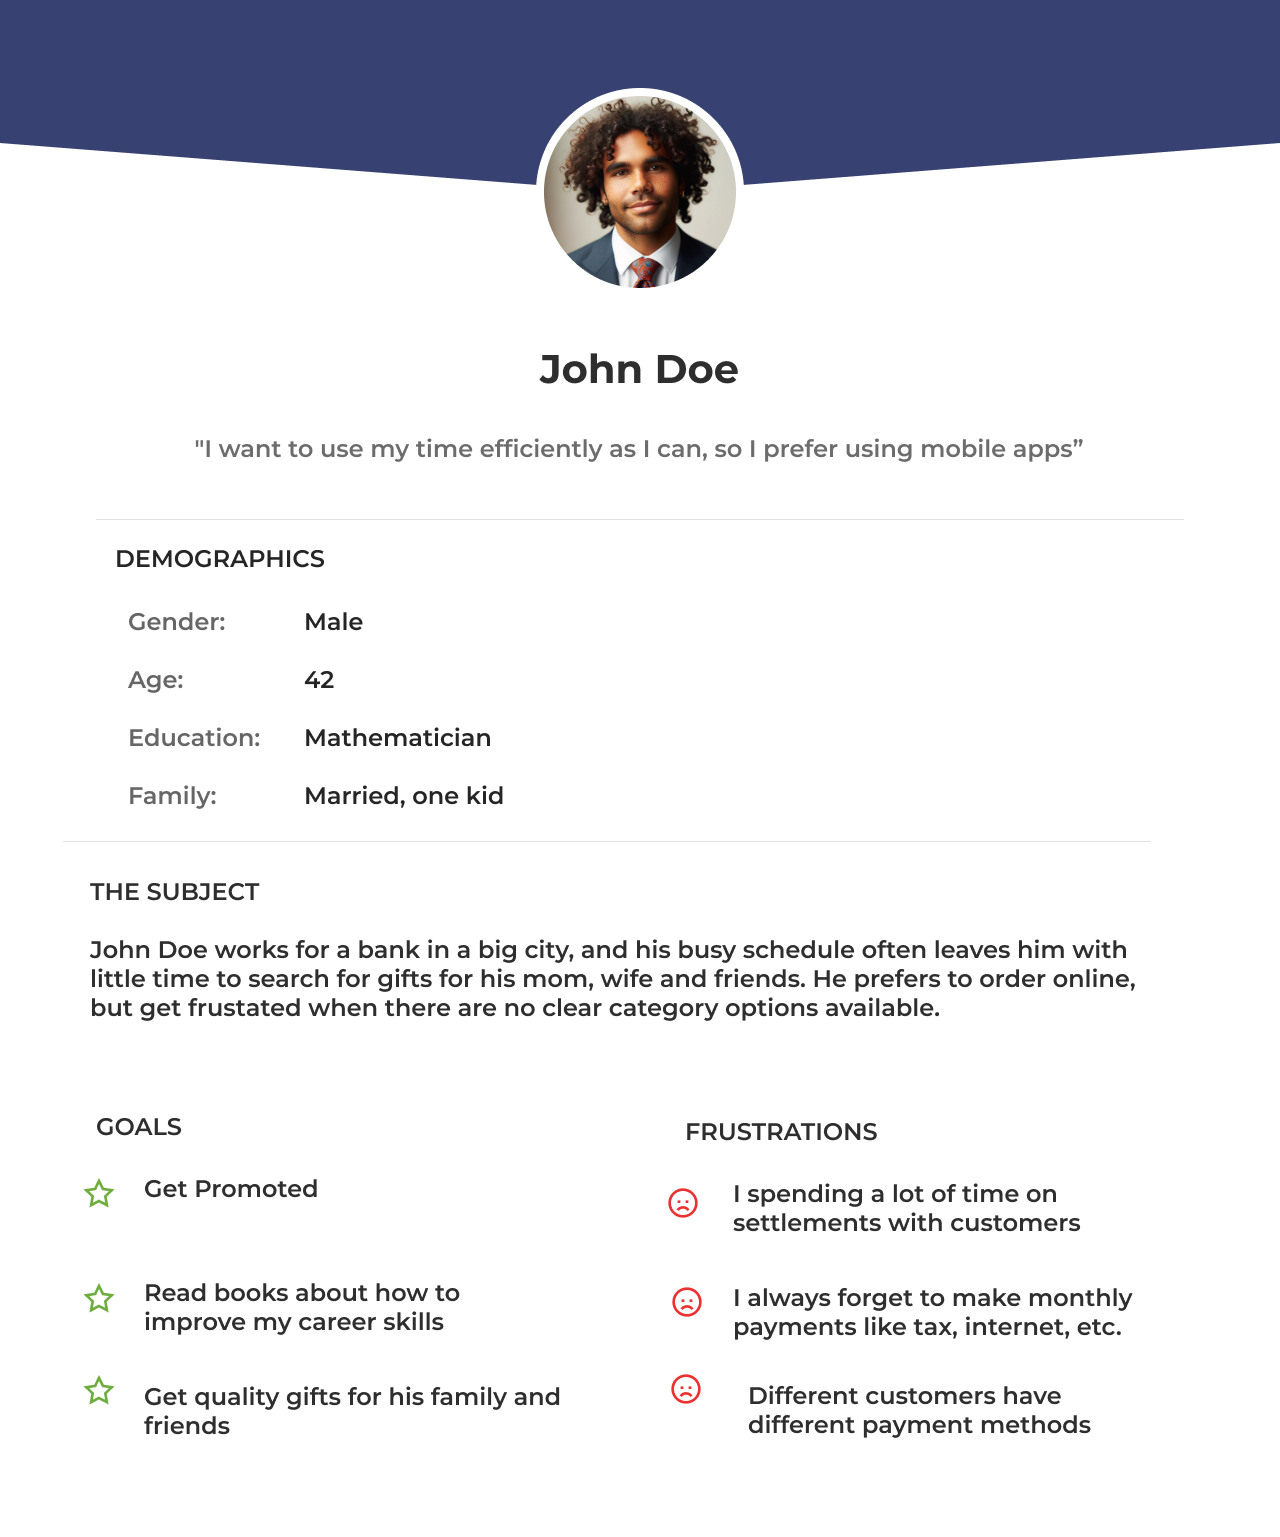
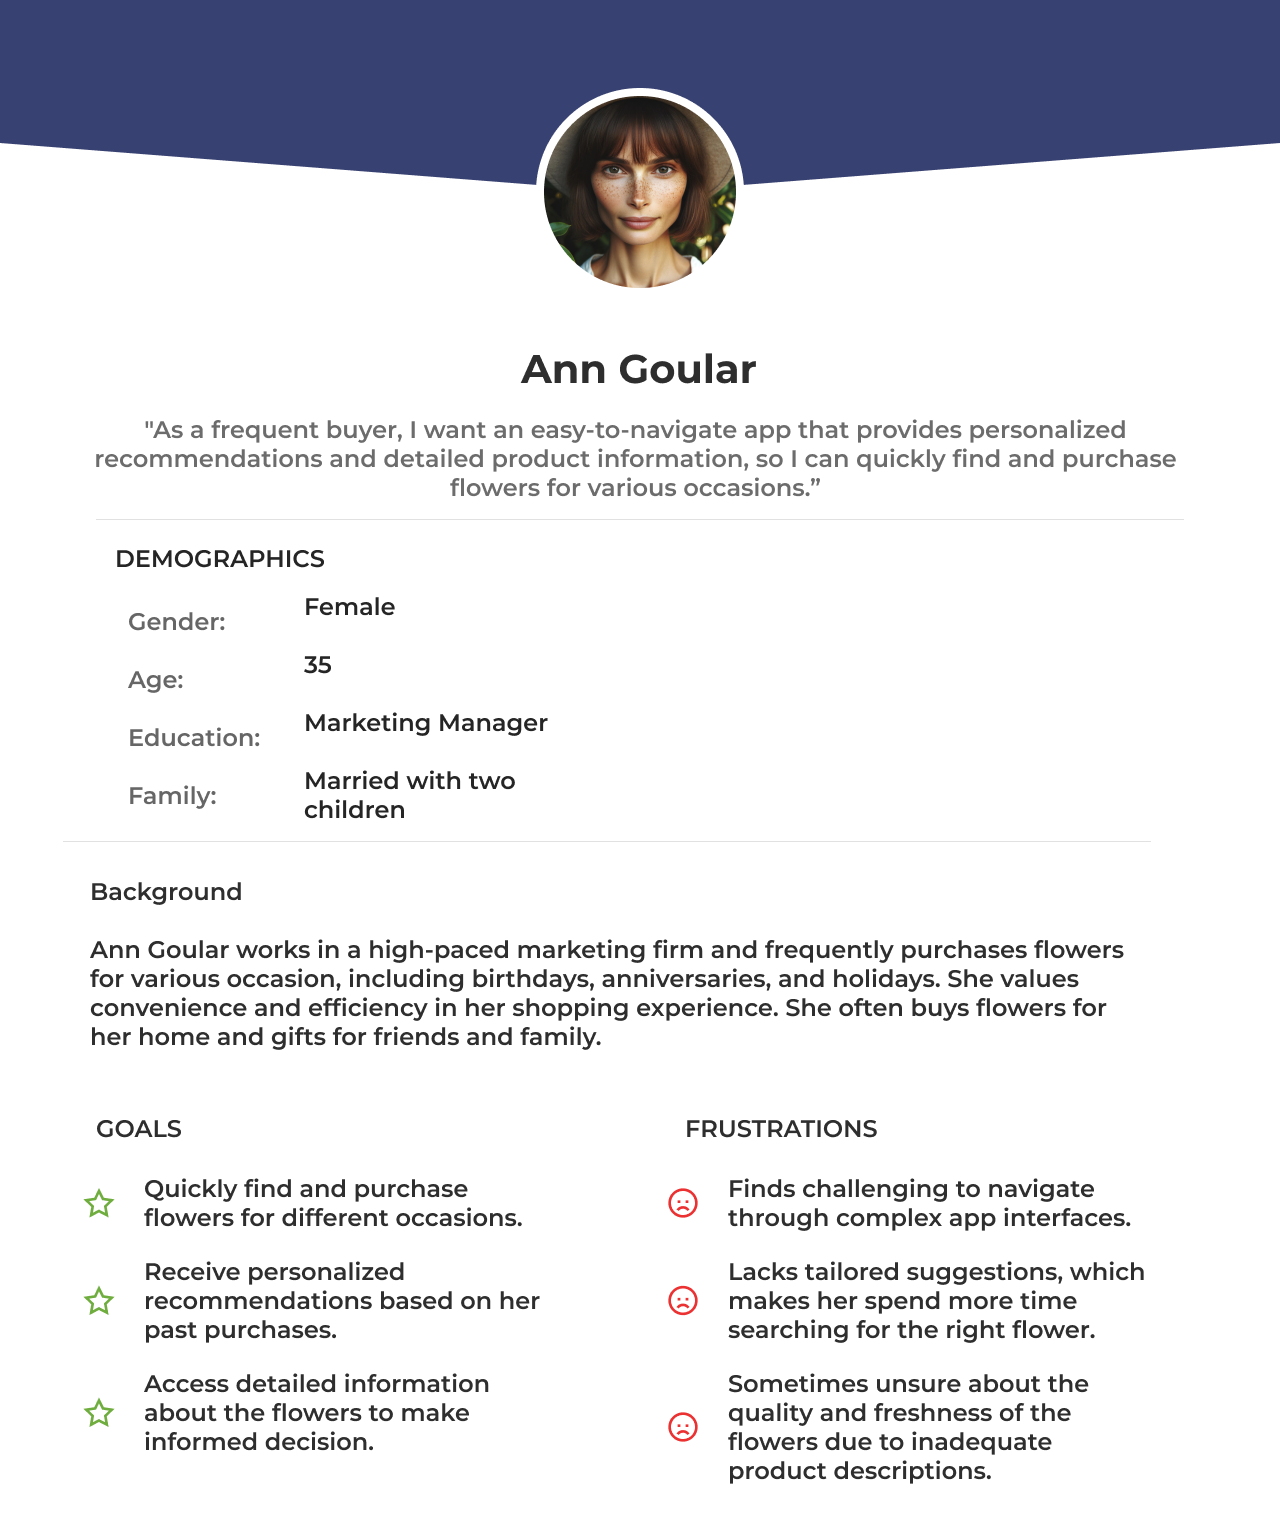
idea matrix

diff --git a/projects/flower-power.html b/projects/flower-power.html
@@ -135,7 +135,7 @@
             <h3 class="year">YEAR 2023</h3>
 
             <h3>BACKGROUND</h3>
-            <p>Flower, an online flower delivery service, aims to provide customers with a seamless and delightful experience when purchasing flowers for various occasions. Despite having a high-fidelity prototype, the app has been facing issues that hinder user satisfaction and business growth.
+            <p>Fiori, an online flower delivery service, aims to provide customers with a seamless and delightful experience when purchasing flowers for various occasions. Despite having a high-fidelity prototype, the app has been facing issues that hinder user satisfaction and business growth.
             </p>
           </div>
           <div class="cell">
@@ -234,7 +234,7 @@
             <div class="painpoint-description">
               <h4>Visual appeal</h4>
               <p>
-                "I want to see a bigger image of the flower"
+                "I want to see a bigger image of the flower".
                 If the app does not have visually good images or design elements, users may not be motivated to browse the catalogue or make purchases. This could lead to low engagement and sales
               </p>
             </div>
@@ -253,7 +253,7 @@
             <div class="painpoint-description">
               <h4>Flower options</h4>
               <p>
-                Too many options of flowers can make the user overwhelmed and confused, separation by categories can help.
+                "Too many options of flowers makes me overwhelmed and confused, separation by categories could help. I also would like some recommendations"
               </p>
             </div>
           </div>
@@ -263,10 +263,7 @@
         <div class="define">
           <h3>Personas</h3>
           <p>
-            Based on research findings, I created a persona who represents the
-            target user of the flower app and their needs and habits. This
-            helped me to empathize with the end user on the remaining steps of
-            the design process.
+            Based on research findings, I created two user personas who represents the target user of the flower app and their needs and habits. This helped me to empathize with the end user on the remaining steps of the design process.
           </p>
           <div class="container-personas">
              <img
@@ -287,7 +284,7 @@
           </p>
           <p class="problem-statment">
             <span class="statment">Problem Statment:</span>
-            Alena Bartor is a full time student who needs to choose the right
+            Ann Goular is a Marketing Manager who needs to choose the right
             bouquet to send as a gift for the right occasion, because she has a
             busy schedule and no time to go to a flower store. 
           </p>
@@ -296,15 +293,9 @@
           <p>I created a user journey, to see how my user feels.</p>
           <div class="user-journey-scenario-wrapper">
             <div class="user-journey-scenario">
-              <p>Persona: Alena Bartor</p>
-              <p>Scenario: Order online flowers</p>
-            </div>
-            <div class="user-journey-scenario">
-              <ul>
-                <p>Expectations:</p>
-                <li>Find the right flower for the occasion</li>
-                <li>Easy and intuitive way to check-out</li>
-              </ul>
+              <p>Persona: Ann Goular</p>
+              <p>Scenario: Ann Goular, a busy marketing executive in her early 30s, frequently buys flowers for various occasions, such as birthdays, anniversaries, and corporate events. She values convenience and efficiency, often making purchases through her smartphone during breaks at work or while commuting. Recently, Ann heard about Fiori app from a friend and saw several ads on social media. Intrigued by the promise of a seamless flower-buying experience, she decides to give it a try.
+              </p>
             </div>
           </div>
           <img
@@ -313,19 +304,25 @@
             alt="user-journey"
           />
         </div>
+      </section>
+      <section>
+        <h2>Ideation</h2>
+        <h3>Idea Priorization Matrix</h3>
+        <p>To understand the features to represent in the first iteration of the prototype, potential features for Fiori were evaluated based on the impact it would have on users and the effort it may take from developers and others teams.</p>
+        <img class="moscow-method" src="../assets/idea-matrix.png" alt="idea-matrix">
+        <h3>Jobs to be done</h3>
         <div class="user-flow-container">
           <h3>User task Flow</h3>
           <p>
             I created a user flow diagram for the payment process, that is one of the most important functionality. The task flow assumes a visit by a guest who has not signed up yet.
           </p>
           <img
-            class="user-flow"
-            src="../assets/userflowflower.png"
-            alt="task-flow"
+          class="user-flow"
+          src="../assets/userflowflower.png"
+          alt="task-flow"
           />
         </div>
       </section>
-
       <!-- Design -->
       <section class="starting-design">
         <h2 class="underlined-title">Starting the design</h2>

diff --git a/projects/gym.html b/projects/gym.html
@@ -136,16 +136,20 @@
             <p>The information I  gathered during the interview is critial for validating or refuting the assumptions and helped guiding the development of the product</p>
             <div class="painpoint-wrapper">
                 <div class="painpoint-description">
-                    <p>Integration of service: "Essential. For the premium price I’m paying, I expect a top-tier experience where I can effortlessly access and manage all services without any inconvenience." </p>
+                  <h4>Integration of service</h4>
+                    <p>"Essential. For the premium price I’m paying, I expect a top-tier experience where I can effortlessly access and manage all services without any inconvenience." </p>
                 </div>
                 <div class="painpoint-description">
-                    <p>Personalization: "Extremely valuable. Personalized plans based on my performance data would help optimize my training and improve my results."</p>
+                  <h4>Personalization</h4>
+                    <p>"Extremely valuable. Personalized plans based on my performance data would help optimize my training and improve my results."</p>
                 </div>
                 <div class="painpoint-description">
-                    <p>Exclusive online store access: "Quite interested. I often need specialized gear and supplements, and having a trusted source within the GymPro ecosystem would be convenient."</p>
+                  <h4>Exclusive online store access</h4>
+                    <p>"Quite interested. I often need specialized gear and supplements, and having a trusted source within the GymPro ecosystem would be convenient."</p>
                 </div>
                 <div class="painpoint-description">
-                    <p>Member system: "It’s functional but lacks the polish and ease of use I’ve experienced with other high-end fitness services." </p>
+                  <h4>Member System</h4>
+                    <p>"It’s functional but lacks the polish and ease of use I’ve experienced with other high-end fitness services." </p>
                 </div>
             </div>
           </section>

diff --git a/projects/project-style.css b/projects/project-style.css
@@ -418,7 +418,7 @@ h2::before {
     justify-content: center;
     flex-wrap: wrap;
     margin: 32px;
-    gap: 8px;
+    gap: 6px;
 }
 
 .persona {
@@ -437,10 +437,13 @@ h2::before {
 }
 
 img.user-journey {
-    text-align: center;
-    height: 600px;
-    padding: 8px 4px;
+    width: 100%;
+    margin-top: 24px;
+    /* text-align: center; */
+    /* height: 600px; */
+    /* padding: 8px 4px; */
 }
+
 
 .user-flow-container {
     display: flex;
